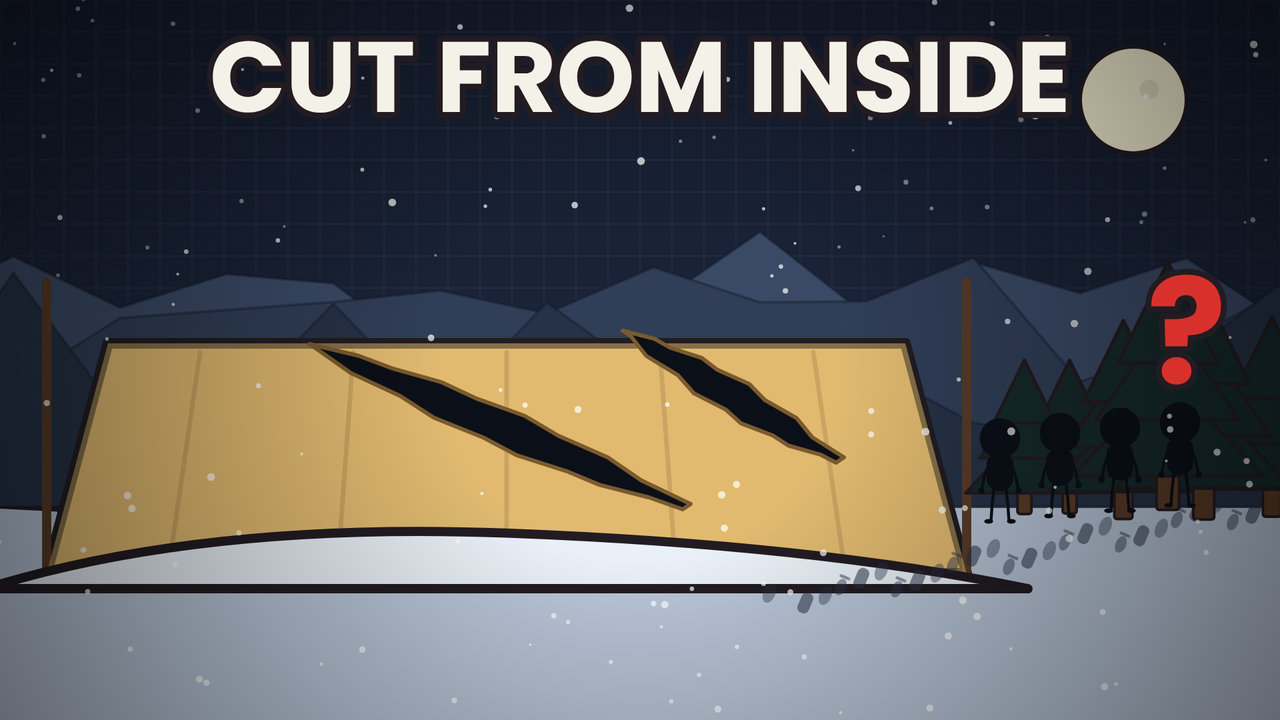
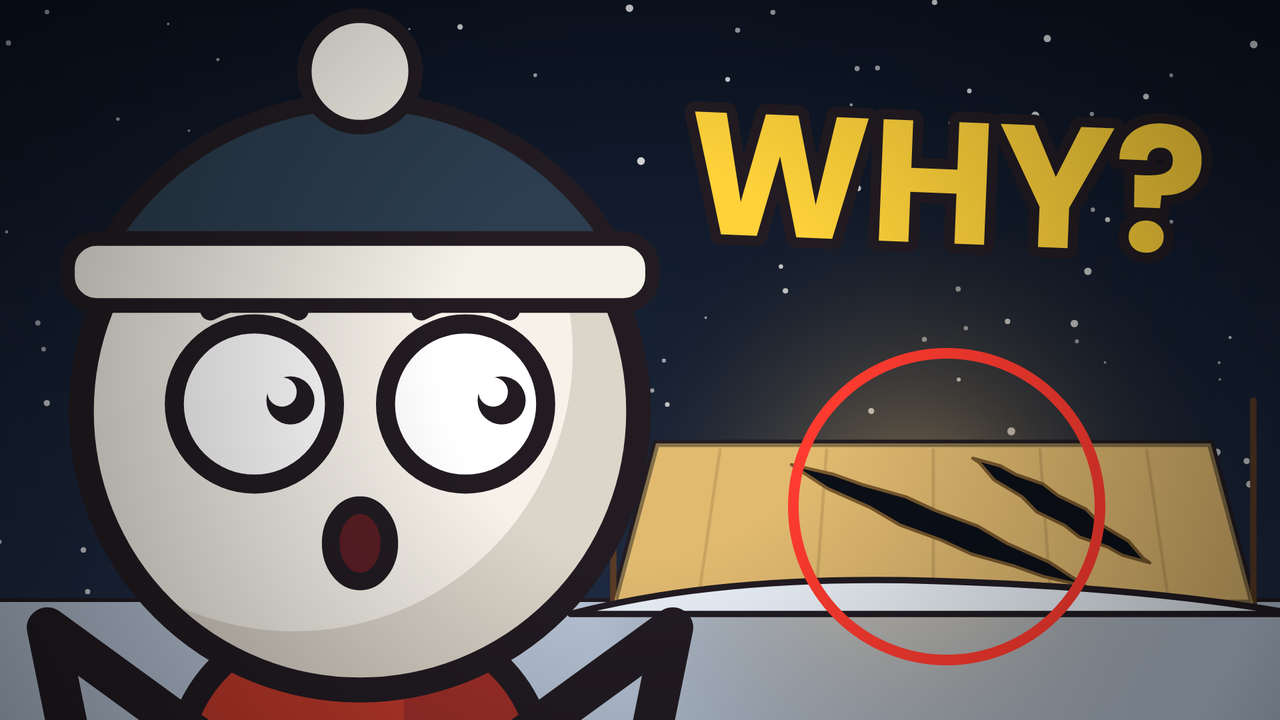
Dyatlov Pass video: three stronger thumbnails, B as main
Claude-Session: https://claude.ai/code/session_01V2LEuwaye4i21UnneCauxB

diff --git a/animations/dyatlov/thumb/options.html b/animations/dyatlov/thumb/options.html
@@ -1,0 +1,47 @@
+<!doctype html><html><head><meta charset="utf-8"><style>
+@font-face{font-family:Poppins;font-weight:700;src:url(../web/fonts/Poppins-Bold.ttf)}
+body{margin:0;background:#000} canvas{display:block}</style></head><body>
+<canvas id="a" width="1920" height="1080"></canvas><canvas id="b" width="1920" height="1080"></canvas><canvas id="c" width="1920" height="1080"></canvas>
+<script src="../web/lib.js"></script><script src="../web/chars.js"></script><script src="../web/env.js"></script>
+<script src="../web/env2.js"></script><script src="../web/env3.js"></script><script src="../web/env6.js"></script><script src="../web/env7.js"></script>
+<script>
+const Y = '#ffd23a';
+function big(ctx, s, x, y, size, fill, rot = 0) { ctx.save(); ctx.translate(x, y); ctx.rotate(rot); text(ctx, s, 0, 0, size, fill, INK, size * .12); ctx.restore(); }
+function bg(ctx, top, bot) { ctx.setTransform(1, 0, 0, 1, 0, 0); const g = ctx.createLinearGradient(0, 0, 0, 1080); g.addColorStop(0, top); g.addColorStop(1, bot); ctx.fillStyle = g; ctx.fillRect(0, 0, 1920, 1080); }
+function glowAt(ctx, x, y, r, col) { const g = ctx.createRadialGradient(x, y, 10, x, y, r); g.addColorStop(0, col); g.addColorStop(1, 'rgba(0,0,0,0)'); ctx.fillStyle = g; ctx.fillRect(0, 0, 1920, 1080); }
+function gash(ctx, x0, y0, x1, y1, w, fill) { const n = 14, pts = [], back = []; for (let i = 0; i <= n; i++) { const f = i / n, x = lerp(x0, x1, f), y = lerp(y0, y1, f), ww = Math.sin(f * Math.PI) * w + 3, j = (i % 2 ? 1 : -1) * w * .18; pts.push([x + j, y - ww]); back.unshift([x - j, y + ww]); } path(ctx, pts.concat(back)); ctx.fillStyle = fill; ctx.fill(); ctx.lineWidth = 10; ctx.strokeStyle = '#5e4320'; ctx.stroke(); }
+function knife(ctx, x, y, s, rot) { ctx.save(); ctx.translate(x, y); ctx.rotate(rot); ctx.scale(s, s); path(ctx, [[0, -18], [260, -6], [300, 0], [260, 10], [0, 18]]); fillStroke(ctx, '#dfe6ee', 7); line(ctx, 30, -4, 240, -2, 4, 'rgba(255,255,255,.8)'); rrect(ctx, -150, -26, 150, 52, 16); fillStroke(ctx, '#5a3b26', 7); rrect(ctx, -16, -40, 26, 80, 8); fillStroke(ctx, '#9aa3ad', 6); ctx.restore(); }
+
+// A: the gash, extreme close-up of the tent wall
+function A() { const ctx = document.getElementById('a').getContext('2d');
+  bg(ctx, '#d8b878', '#a9834a'); for (let x = -100; x < 2000; x += 160) line(ctx, x, 0, x + 120, 1080, 6, 'rgba(90,60,20,.18)');
+  ctx.fillStyle = 'rgba(0,0,0,.25)'; ctx.fillRect(0, 0, 1920, 1080);
+  glowAt(ctx, 1000, 560, 700, 'rgba(255,220,140,.35)');
+  gash(ctx, 420, 300, 1500, 820, 120, '#05070c');
+  // a terrified eye looking out through the gash
+  ctx.save(); const n = 14, pts = [], back = []; for (let i = 0; i <= n; i++) { const f = i / n, x = lerp(420, 1500, f), y = lerp(300, 820, f), ww = Math.sin(f * Math.PI) * 120 + 3, j = (i % 2 ? 1 : -1) * 21; pts.push([x + j, y - ww]); back.unshift([x - j, y + ww]); } path(ctx, pts.concat(back)); ctx.clip();
+  circle(ctx, 1010, 600, 330); ctx.fillStyle = '#e9e4da'; ctx.fill(); ctx.fillStyle = 'rgba(0,0,0,.35)'; ctx.fillRect(400, 280, 1200, 600); ellipse(ctx, 980, 560, 120, 92); fillStroke(ctx, '#fff', 10); circle(ctx, 1010, 555, 44); ctx.fillStyle = INK; ctx.fill(); circle(ctx, 1024, 540, 12); ctx.fillStyle = '#fff'; ctx.fill(); ctx.restore();
+  knife(ctx, 640, 405, 1.4, -2.69);
+  big(ctx, 'CUT FROM', 520, 150, 150, '#fff', -.03); big(ctx, 'INSIDE', 560, 960, 200, Y, -.03);
+  vignetteDark(ctx, .55); }
+
+// B: the face, a giant terrified hiker
+function B() { const ctx = document.getElementById('b').getContext('2d');
+  bg(ctx, '#0b1220', '#22304a'); stars(ctx, 60, 3, .6); snowfall(ctx, 0, .8, 140, .4);
+  ctx.fillStyle = NIGHT_SNOW; ctx.fillRect(0, 900, 1920, 200); line(ctx, 0, 900, 1920, 900, 6);
+  glowAt(ctx, 1380, 760, 520, 'rgba(255,200,110,.45)'); tent(ctx, 1400, 905, 1.6, { cut: 1, light: 1, bury: .2 });
+  circle(ctx, 1420, 760, 230); ctx.lineWidth = 16; ctx.strokeStyle = '#ff3b30'; ctx.stroke();
+  drawStick(ctx, C(HIKERS[0], { x: 540, y: 2300, s: 2200, shadow: false, arms: { L: [2.2, -2.4], R: [2.2, -2.4] }, face: { eyes: 'wide', mouth: 'o', look: [1, -.1] } }));
+  big(ctx, 'WHY?', 1420, 300, 260, Y, .04); vignetteDark(ctx, .45); }
+
+// C: bare footprints into the dark
+function C3() { const ctx = document.getElementById('c').getContext('2d');
+  bg(ctx, '#0b1220', '#1e2a40'); stars(ctx, 60, 7, .6); mountains(ctx, 560, 1); forest(ctx, 600, 3, 14, 180, 300, .75, -100, 2020);
+  for (let k = 0; k < 9; k++) silhouette(ctx, 760 + k * 55, 610 - (k % 2) * 6, 120, '#05070c');
+  ctx.fillStyle = '#c9d4e3'; ctx.beginPath(); ctx.moveTo(0, 600); ctx.lineTo(1920, 600); ctx.lineTo(1920, 1080); ctx.lineTo(0, 1080); ctx.fill(); line(ctx, 0, 600, 1920, 600, 6);
+  // big bare footprints in perspective, from the camera to the forest
+  for (let i = 0; i < 9; i++) { const f = i / 8, s = lerp(4.2, .7, f), x = lerp(760, 960, f) + (i % 2 ? 1 : -1) * lerp(130, 20, f), y = lerp(1000, 640, Math.pow(f, .7)); ctx.save(); ctx.translate(x, y); ctx.scale(s * (i % 2 ? -1 : 1), s * .6); ctx.rotate(.08); ctx.fillStyle = 'rgba(25,35,55,.85)'; ellipse(ctx, 1, -6, 14, 20); ctx.fill(); ellipse(ctx, -2, 18, 10, 12); ctx.fill(); ctx.fillRect(-9, 4, 19, 12); for (let tt = 0; tt < 5; tt++) { circle(ctx, -11 + tt * 5.6, -30 + Math.abs(tt - 1) * 2 + tt * .8, 4.6 - tt * .55); ctx.fill(); } ctx.restore(); }
+  snowfall(ctx, 0, .8, 160, .4); thermometer(ctx, 1700, 900, 520, -30);
+  big(ctx, 'NO SHOES.', 560, 180, 170, '#fff', -.03); big(ctx, '−30°C', 1480, 200, 150, '#9fd0ff', .03); vignetteDark(ctx, .4); }
+document.fonts.load('700 100px Poppins').then(() => { A(); B(); C3(); document.title = 'ready'; });
+</script></body></html>

diff --git a/animations/dyatlov/thumb/shot3.js b/animations/dyatlov/thumb/shot3.js
@@ -1,0 +1,5 @@
+const { chromium } = require('playwright');
+(async () => { const b = await chromium.launch(); const p = await b.newPage({ viewport: { width: 1920, height: 3240 } });
+  p.on('pageerror', e => console.log('ERR', e.message));
+  await p.goto('file://' + __dirname + '/options.html'); await p.waitForFunction(() => document.title === 'ready', null, { timeout: 15000 });
+  for (const id of ['a', 'b', 'c']) await (await p.$('#' + id)).screenshot({ path: __dirname + '/opt-' + id + '.png' }); await b.close(); })();

diff --git a/animations/dyatlov/youtube-upload.md b/animations/dyatlov/youtube-upload.md
@@ -4,7 +4,7 @@
 9 Hikers, 1 Night, No Answer: Dyatlov Pass
 
 ## Thumbnail
-thumb/thumbnail.png  ("CUT FROM INSIDE")
+thumb/thumbnail.png  ("WHY?", the terrified hiker). Test & Compare extras: thumbnail-a.png, thumbnail-c.png
 
 ## Description
 ---
